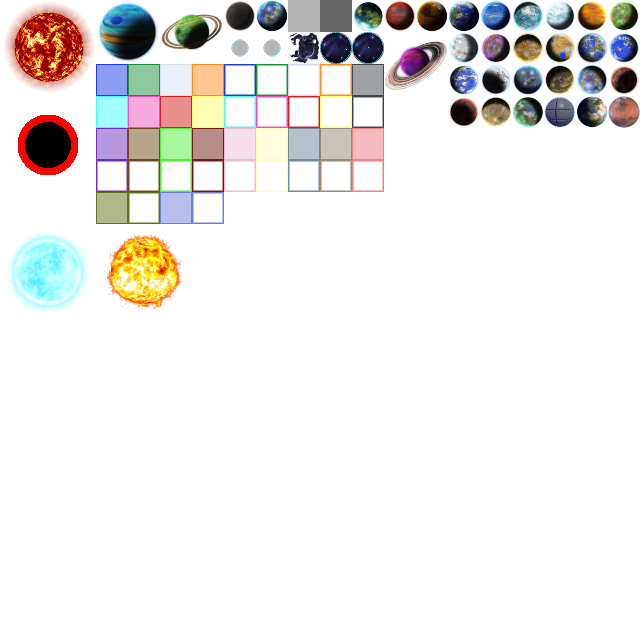
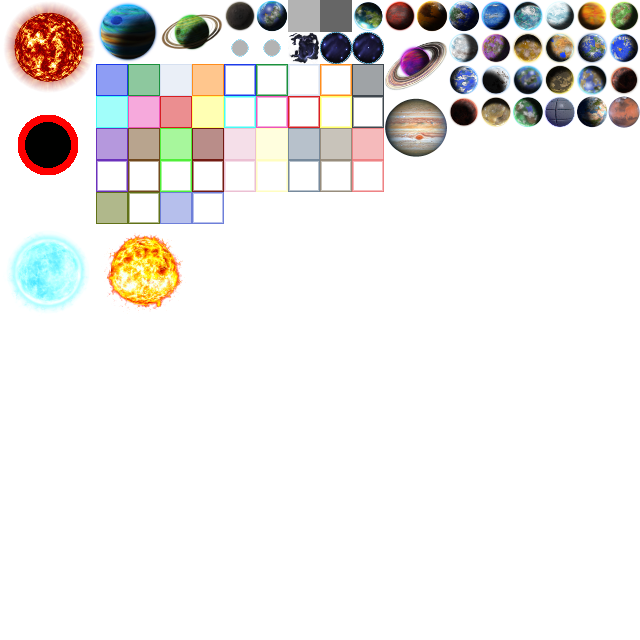
#525 Adds Jupiter images.

Changed region(s): [[0.5938, 0.1562, 0.7188, 0.25]]

diff --git a/src/main/java/org/openRealmOfStars/starMap/StarMap.java b/src/main/java/org/openRealmOfStars/starMap/StarMap.java
@@ -1774,13 +1774,13 @@ public class StarMap {
             planets, false);
         planet.setPlanetType(PlanetTypes.getRandomPlanetType(false));
         if (planets == 1) {
-          planet.setPlanetType(PlanetTypes.IRONWORLD1);
+          planet.setPlanetType(PlanetTypes.SILICONWORLD1);
           planet.setRadiationLevel(9);
           planet.setGroundSize(7);
           planet.setName("Mercury");
         }
         if (planets == 2) {
-          planet.setPlanetType(PlanetTypes.CARBONWORLD3);
+          planet.setPlanetType(PlanetTypes.CARBONWORLD2);
           planet.setRadiationLevel(6);
           planet.setGroundSize(11);
           planet.setName("Venus");
@@ -1831,7 +1831,10 @@ public class StarMap {
         gasGiants++;
         Planet planet = new Planet(new Coordinate(px, py), sun.getName(),
             planets + gasGiants, true);
-        planet.setPlanetType(PlanetTypes.getRandomPlanetType(true));
+        if (gasGiants == 1) {
+          planet.setPlanetType(PlanetTypes.PLANET_JUPITER);
+          planet.setName("Jupiter");
+        }
         planetList.add(planet);
         int planetNumber = planetList.size() - 1;
         info = new SquareInfo(SquareInfo.TYPE_GAS_PLANET, planetNumber);
@@ -1874,6 +1877,21 @@ public class StarMap {
           tiles[px][py + 1] = Tiles.getTileByName(TileNames.GAS_GIANT_3_SW)
               .getIndex();
           tiles[px + 1][py + 1] = Tiles.getTileByName(TileNames.GAS_GIANT_3_SE)
+              .getIndex();
+          tileInfo[px][py] = info;
+          tileInfo[px + 1][py] = info;
+          tileInfo[px][py + 1] = info;
+          tileInfo[px + 1][py + 1] = info;
+          break;
+        }
+        case 29: {
+          tiles[px][py] = Tiles.getTileByName(TileNames.JUPITER_NW)
+              .getIndex();
+          tiles[px + 1][py] = Tiles.getTileByName(TileNames.JUPITER_NE)
+              .getIndex();
+          tiles[px][py + 1] = Tiles.getTileByName(TileNames.JUPITER_SW)
+              .getIndex();
+          tiles[px + 1][py + 1] = Tiles.getTileByName(TileNames.JUPITER_SE)
               .getIndex();
           tileInfo[px][py] = info;
           tileInfo[px + 1][py] = info;

diff --git a/src/main/java/org/openRealmOfStars/starMap/planet/PlanetTypes.java b/src/main/java/org/openRealmOfStars/starMap/planet/PlanetTypes.java
@@ -220,11 +220,18 @@ public enum PlanetTypes {
       GuiStatics.BIG_PLANET_EARTH, WorldType.WATERWORLD,
       ImageInstruction.PLANET_EARTH, false, true),
   /**
-   * Planet MARS
+   * Planet Mars
    */
   PLANET_MARS(Tiles.getTileByName(TileNames.PLANET_MARS).getIndex(),
       GuiStatics.BIG_PLANET_MARS, WorldType.IRONWORLD,
-      ImageInstruction.PLANET_MARS, false, true);
+      ImageInstruction.PLANET_MARS, false, true),
+  /**
+   * Planet Jupiter
+   */
+  PLANET_JUPITER(Tiles.getTileByName(TileNames.PLANET_JUPITER).getIndex(),
+      GuiStatics.BIG_PLANET_JUPITER, WorldType.GASWORLD,
+      ImageInstruction.PLANET_JUPITER, true, true);
+
 
 
   /**
@@ -424,6 +431,7 @@ public enum PlanetTypes {
       case ARTIFICIALWORLD1: return 26;
       case PLANET_EARTH: return 27;
       case PLANET_MARS: return 28;
+      case PLANET_JUPITER: return 29;
       default:
         throw new IllegalArgumentException("Unknown planet index!!");
     }
@@ -443,6 +451,7 @@ public enum PlanetTypes {
         case  0: return GASGIANT1;
         case  1: return GASGIANT2;
         case  2: return GASGIANT3;
+        case  29: return PLANET_JUPITER;
         default:
           throw new IllegalArgumentException("No planet type available "
               + "for this index!!");
@@ -523,6 +532,7 @@ public enum PlanetTypes {
       case ARTIFICIALWORLD1: return "Artificial world";
       case PLANET_EARTH: return "Water world";
       case PLANET_MARS: return "Iron world";
+      case PLANET_JUPITER: return "Gas giant";
       default:
         throw new IllegalArgumentException("Unknown planet type!!");
     }

diff --git a/src/main/java/org/openRealmOfStars/mapTiles/TileNames.java b/src/main/java/org/openRealmOfStars/mapTiles/TileNames.java
@@ -201,6 +201,22 @@ public final class TileNames {
    * Gas Giant 3 South West
    */
   public static final String GAS_GIANT_3_SW = "GAS_GIANT_3_SW";
+  /**
+   * Jupiter North West
+   */
+  public static final String JUPITER_NW = "JUPITER_NW";
+  /**
+   * Jupiter North East
+   */
+  public static final String JUPITER_NE = "JUPITER_NE";
+  /**
+   * Jupiter South East
+   */
+  public static final String JUPITER_SE = "JUPITER_SE";
+  /**
+   * Jupiter South West
+   */
+  public static final String JUPITER_SW = "JUPITER_SW";
 
   /**
    * Planet 1 Rock world 1
@@ -596,6 +612,10 @@ public final class TileNames {
    * Planet Mars
    */
   public static final String PLANET_MARS = "PLANET_MARS";
+  /**
+   * Planet Jupiter
+   */
+  public static final String PLANET_JUPITER = "PLANET_JUPITER";
 
   /**
    * List of non harmful space anomalies

diff --git a/src/main/java/org/openRealmOfStars/game/States/CreditsView.java b/src/main/java/org/openRealmOfStars/game/States/CreditsView.java
@@ -126,6 +126,13 @@ public class CreditsView extends BlackPanel {
       + "This includes full planet image and map tile scaled from original\n"
       + "Licensed under CC BY 4.0\n"
       + "http://creativecommons.org/licenses/by/4.0/\n\n"
+      + "Hubble's View of Jupiter and Europa in August 2020\n"
+      + "by NASA, ESA, A. Simon (Goddard Space Flight Center),"
+      + " and M. H. Wong (University of California, Berkeley)"
+      + " and the OPAL team.\n"
+      + "This includes full planet image and map tile scaled from original\n"
+      + "Licensed under CC BY 4.0\n"
+      + "http://creativecommons.org/licenses/by/4.0/\n\n"
       + "GBNC logo by Tuomo Untinen\n\n"
       + "Worm hole by Tuomo Untinen\n\n"
       + "Privateering effect in combat by Tuomo Untinen\n\n"

diff --git a/src/main/java/org/openRealmOfStars/gui/infopanel/MapInfoPanel.java b/src/main/java/org/openRealmOfStars/gui/infopanel/MapInfoPanel.java
@@ -353,6 +353,17 @@ public class MapInfoPanel extends InfoPanel {
           tmpTile.draw(g2d, Tile.MAX_WIDTH, Tile.MAX_HEIGHT);
           break;
         }
+        case 29: {
+          tmpTile = Tiles.getTileByName(TileNames.JUPITER_NW);
+          tmpTile.draw(g2d, 0, 0);
+          tmpTile = Tiles.getTileByName(TileNames.JUPITER_NE);
+          tmpTile.draw(g2d, Tile.MAX_WIDTH, 0);
+          tmpTile = Tiles.getTileByName(TileNames.JUPITER_SW);
+          tmpTile.draw(g2d, 0, Tile.MAX_HEIGHT);
+          tmpTile = Tiles.getTileByName(TileNames.JUPITER_SE);
+          tmpTile.draw(g2d, Tile.MAX_WIDTH, Tile.MAX_HEIGHT);
+          break;
+        }
         }
       }
       g2d.dispose();

diff --git a/src/main/java/org/openRealmOfStars/starMap/newsCorp/ImageInstruction.java b/src/main/java/org/openRealmOfStars/starMap/newsCorp/ImageInstruction.java
@@ -219,6 +219,10 @@ public class ImageInstruction {
    */
   public static final String PLANET_MARS = "mars";
   /**
+   * Planet type Jupiter
+   */
+  public static final String PLANET_JUPITER = "jupiter";
+  /**
    * Sports logo around the planet image
    */
   public static final String PLANET_SPORTS = "sportslogo";
@@ -911,6 +915,9 @@ public class ImageInstruction {
     }
     if (PLANET_MARS.equals(planetType)) {
       planetImg = GuiStatics.BIG_PLANET_MARS;
+    }
+    if (PLANET_JUPITER.equals(planetType)) {
+      planetImg = GuiStatics.BIG_PLANET_JUPITER;
     }
     if (PLANET_IRONWORLD1.equals(planetType)) {
       planetImg = GuiStatics.BIG_PLANET_IRONPLANET1;

diff --git a/src/main/java/org/openRealmOfStars/mapTiles/Tiles.java b/src/main/java/org/openRealmOfStars/mapTiles/Tiles.java
@@ -566,6 +566,16 @@ public final class Tiles {
     addTile(tile);
     tile = new Tile(tilesImage, 19, 3, TileNames.PLANET_MARS);
     addTile(tile);
+    // Reading the gas planet 2x2
+    tile = new Tile(tilesImage, 12, 3, TileNames.JUPITER_NW);
+    addTile(tile);
+    tile = new Tile(tilesImage, 13, 3, TileNames.JUPITER_NE);
+    addTile(tile);
+    tile = new Tile(tilesImage, 12, 4, TileNames.JUPITER_SW);
+    addTile(tile);
+    tile = new Tile(tilesImage, 13, 4, TileNames.JUPITER_SE);
+    addTile(tile);
+
   }
 
   /**

diff --git a/src/main/java/org/openRealmOfStars/gui/utilies/GuiStatics.java b/src/main/java/org/openRealmOfStars/gui/utilies/GuiStatics.java
@@ -1074,6 +1074,13 @@ public final class GuiStatics {
           "/resources/images/mars.png"));
 
   /**
+   * Big planet screen Jupiter
+   */
+  public static final BufferedImage BIG_PLANET_JUPITER = IOUtilities
+      .loadImage(Tiles.class.getResource(
+          "/resources/images/jupiter.png"));
+
+  /**
    * Big sports logo
    */
   public static final BufferedImage BIG_SPORT_LOGO = IOUtilities

diff --git a/AUTHORS.md b/AUTHORS.md
@@ -89,6 +89,12 @@ This includes full planet image and map tile scaled from original
 Licensed under CC BY 4.0
 http://creativecommons.org/licenses/by/4.0/
 
+Hubble's View of Jupiter and Europa in August 2020
+by NASA, ESA, A. Simon (Goddard Space Flight Center), and M. H. Wong (University of California, Berkeley) and the OPAL team.
+This includes full planet image and map tile scaled from original
+Licensed under CC BY 4.0
+http://creativecommons.org/licenses/by/4.0/
+
 GBNC logo by Tuomo Untinen
 
 Worm hole by Tuomo Untinen
